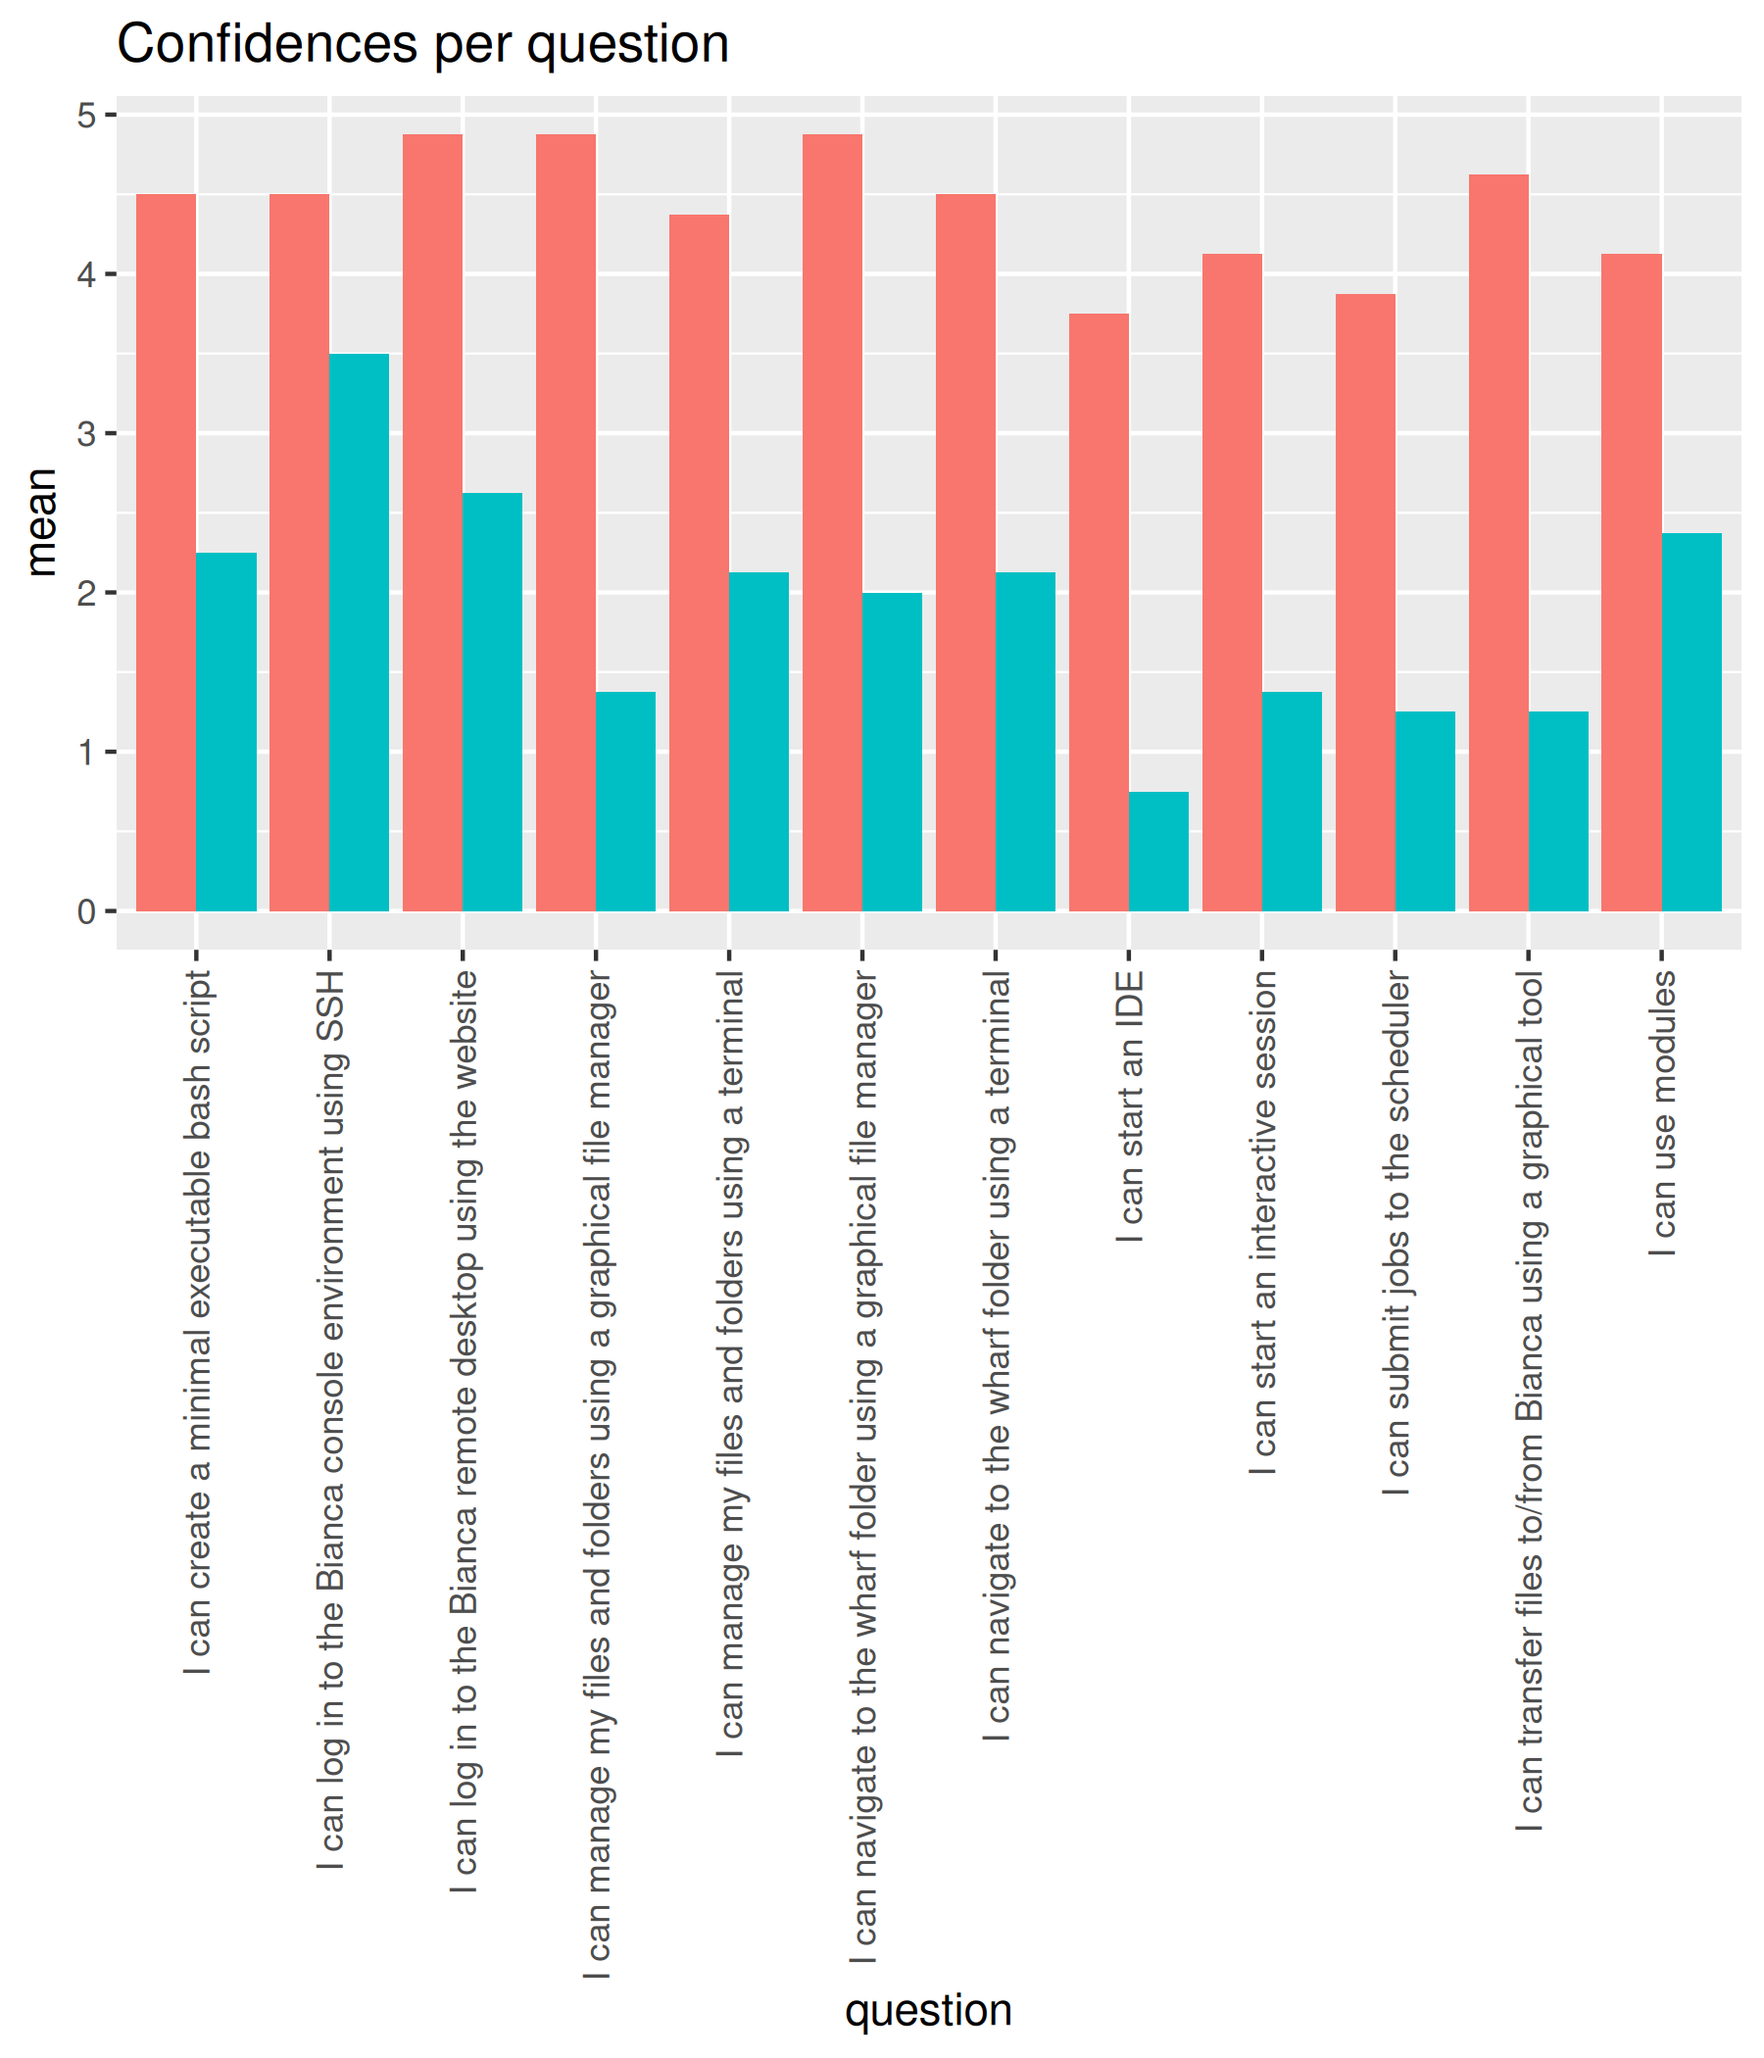
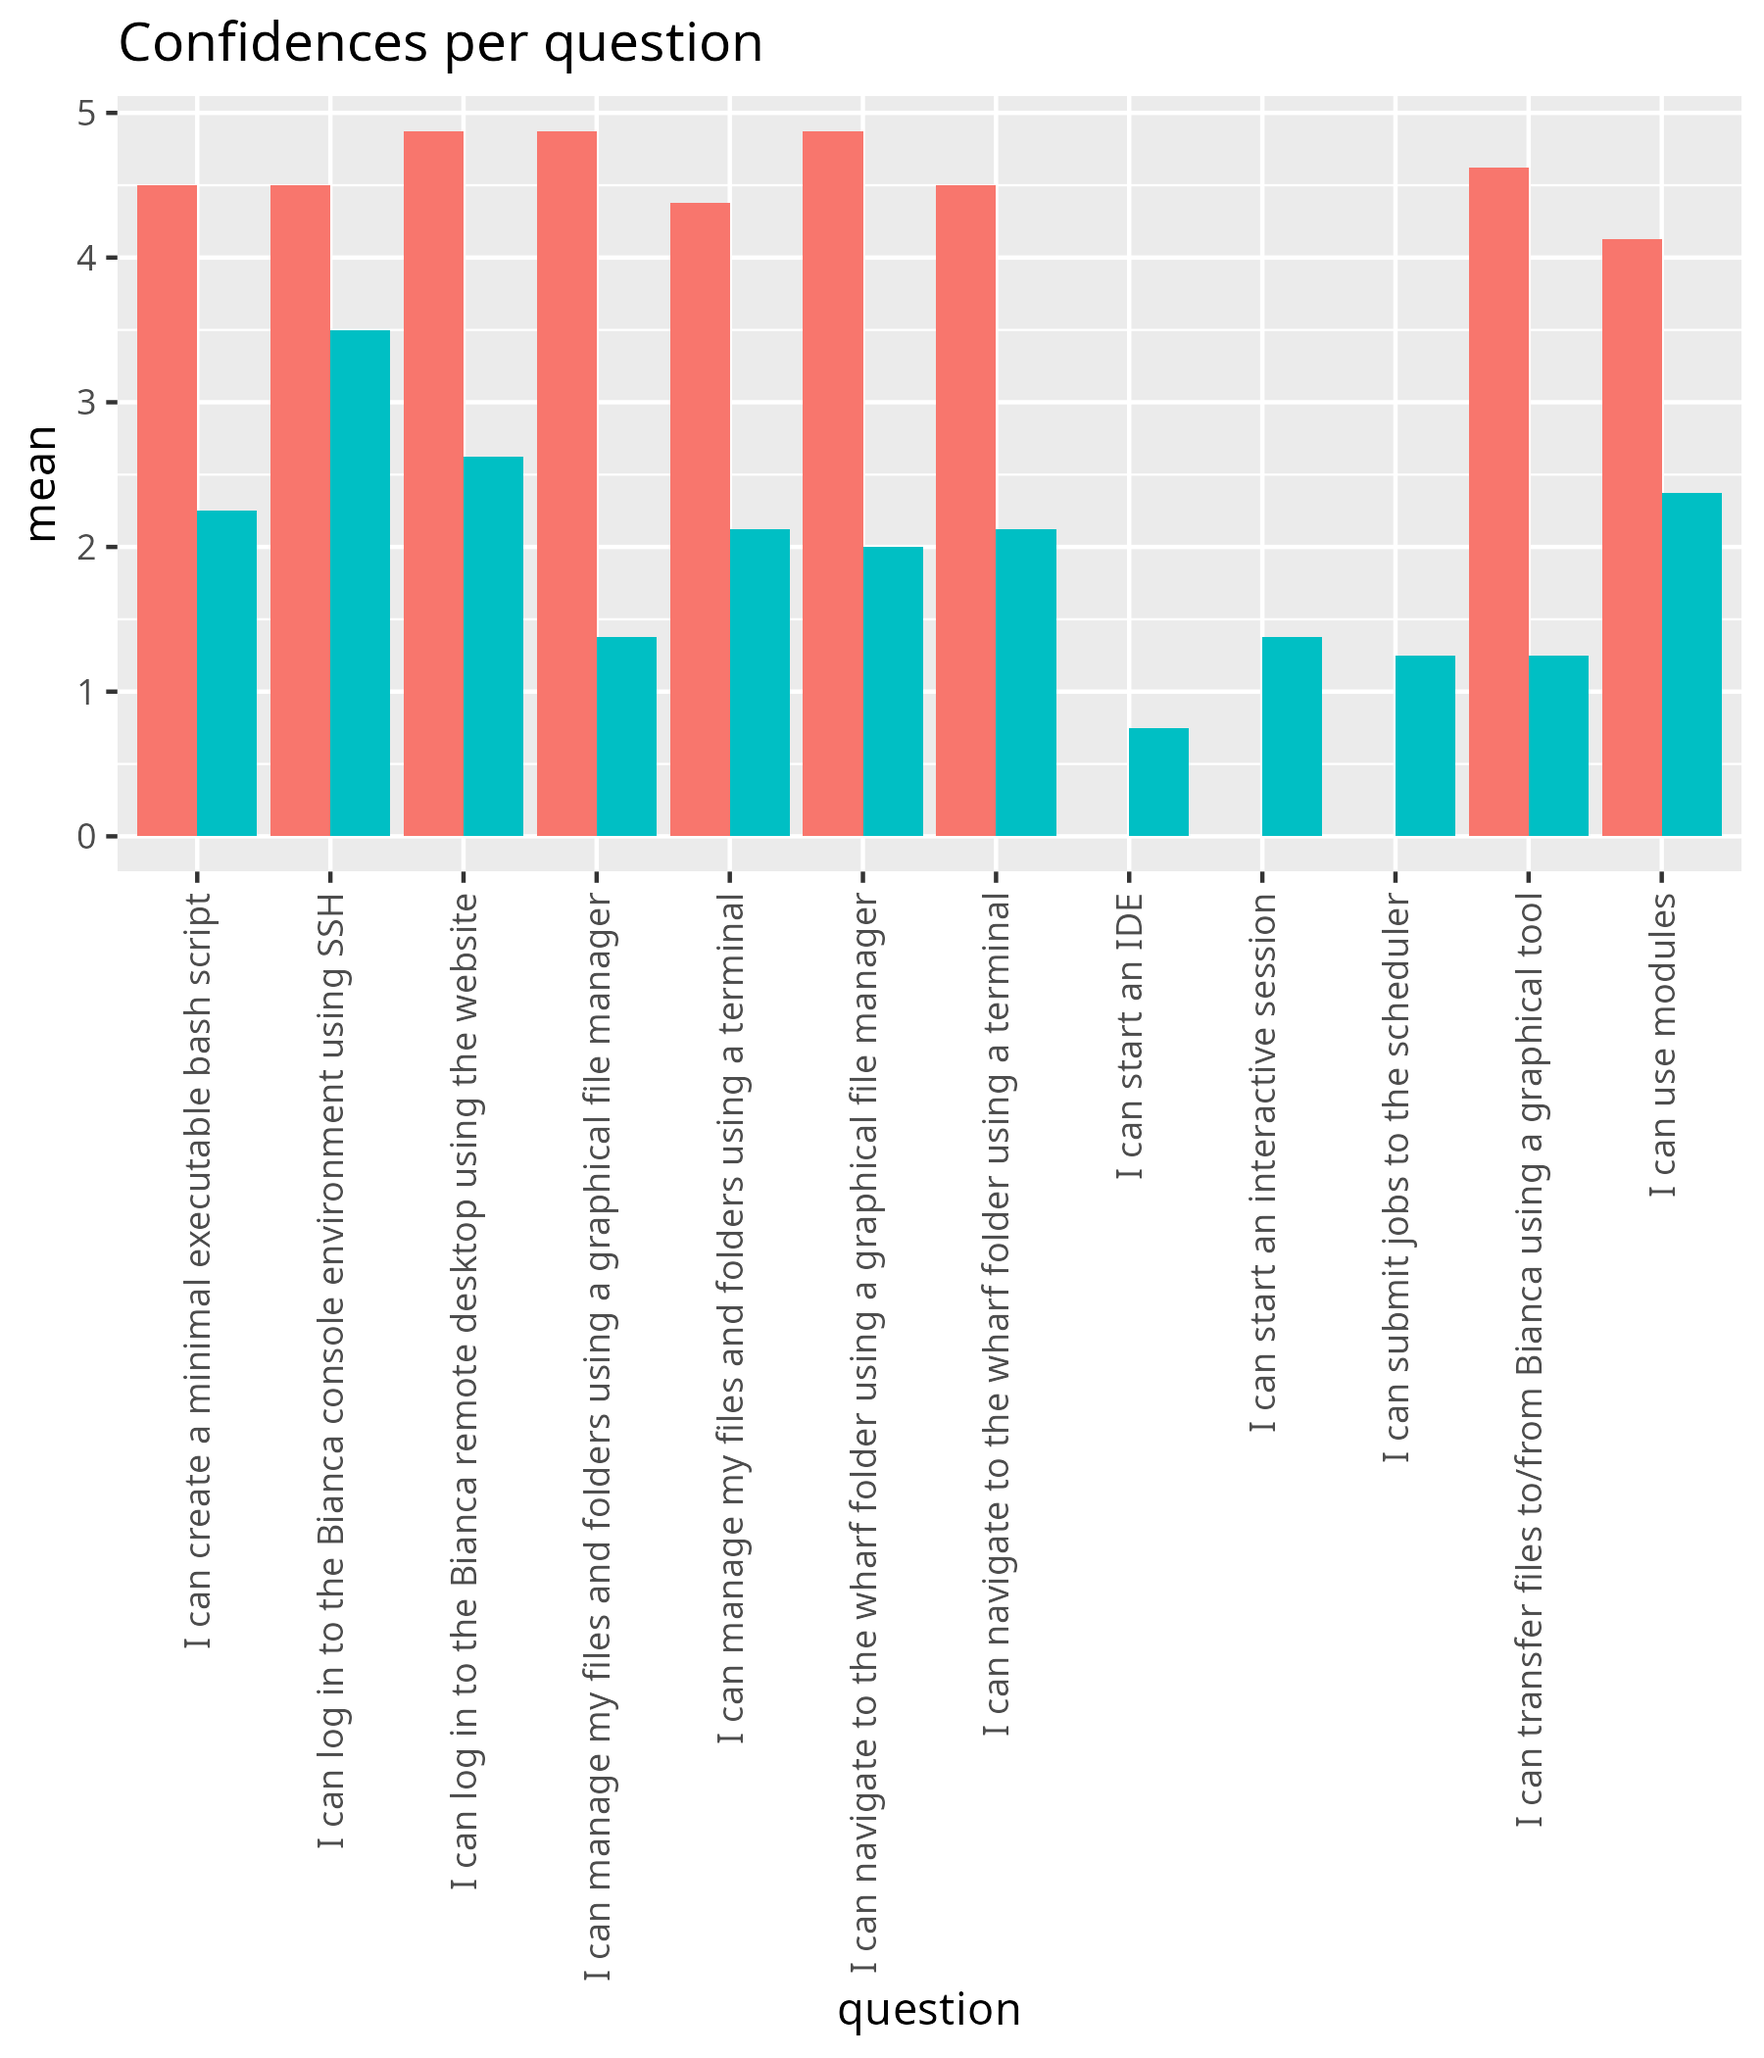
Update analysis

diff --git a/docs/evaluations/20250915/README.md b/docs/evaluations/20250915/README.md
@@ -11,6 +11,12 @@
 - [Any feedback results](any_feedback.csv)
 - [Reflection by Richel](../../reflections/20250915/20250915_richel.md)
 
+!!! note "Analysis note"
+
+    One learner filled in zeroes at three later sessions at the end of
+    the day. We hypothesize this learner left earlier.
+    We modified the data to remove those zeroes.
+
 ## Confidences
 
 - [Average confidences as a table](average_confidences.csv)
@@ -76,7 +82,7 @@
   some reading-up before the course, or make them watch certain videos, etc.,
   that you feel are important for understanding everything).
   Could be done in the Canvas platform for example where you can also see
-  if someone has not done the respective task. 
+  if someone has not done the respective task.
 - Gentle introduction to the topics, good pace, good selection of topics.
 - The course is super helpful and thanks to all the instructors!
 
@@ -105,17 +111,18 @@ before he started his section too.
 
 ![Confidences per question pre-post](confidences_per_question_pre_post.png)
 
-question                                                          | mean_pre| mean_post|   p_value|different 
-------------------------------------------------------------------|---------|----------|----------|----------
-I can log in to the Bianca remote desktop using the website       |    2.625|     4.875| 0.0106845|TRUE
-I can log in to the Bianca console environment using SSH          |    3.500|     4.500| 0.6854435|FALSE     
-I can navigate to the wharf folder using a graphical file manager |    2.000|     4.875| 0.0101293|TRUE      
-I can manage my files and folders using a graphical file manager  |    1.375|     4.875| 0.0024739|TRUE      
-I can navigate to the wharf folder using a terminal               |    2.125|     4.500| 0.0412186|TRUE      
-I can manage my files and folders using a terminal                |    2.125|     4.375| 0.0342120|TRUE      
-I can create a minimal executable bash script                     |    2.250|     4.500| 0.0907979|FALSE     
-I can use modules                                                 |    2.375|     4.125| 0.1369613|FALSE     
-I can transfer files to/from Bianca using a graphical tool        |    1.250|     4.625| 0.0045563|TRUE      
-I can start an interactive session                                |    1.375|     4.125| 0.0255363|TRUE      
-I can submit jobs to the scheduler                                |    1.250|     3.875| 0.0310325|TRUE      
-I can start an IDE                                                |    0.750|     3.750| 0.0198831|TRUE      
+question                                                          | mean_pre| mean_post|   p_value|different
+------------------------------------------------------------------|--------:|---------:|---------:|:---------
+I can log in to the Bianca remote desktop using the website       |    2.625|  4.875000| 0.0106845|TRUE
+I can log in to the Bianca console environment using SSH          |    3.500|  4.500000| 0.6854435|FALSE
+I can navigate to the wharf folder using a graphical file manager |    2.000|  4.875000| 0.0101293|TRUE
+I can manage my files and folders using a graphical file manager  |    1.375|  4.875000| 0.0024739|TRUE
+I can navigate to the wharf folder using a terminal               |    2.125|  4.500000| 0.0412186|TRUE
+I can manage my files and folders using a terminal                |    2.125|  4.375000| 0.0342120|TRUE
+I can create a minimal executable bash script                     |    2.250|  4.500000| 0.0907979|FALSE
+I can use modules                                                 |    2.375|  4.125000| 0.1369613|FALSE
+I can transfer files to/from Bianca using a graphical tool        |    1.250|  4.625000| 0.0045563|TRUE
+I can start an interactive session                                |    1.375|  4.714286| 0.0056481|TRUE
+I can submit jobs to the scheduler                                |    1.250|  4.428571| 0.0074946|TRUE
+I can start an IDE                                                |    0.750|  4.285714| 0.0076924|TRUE
+

diff --git a/docs/evaluations/20250915/stats.md b/docs/evaluations/20250915/stats.md
@@ -1,14 +1,14 @@
 |question                                                          | mean_pre| mean_post|   p_value|different |
 |:-----------------------------------------------------------------|--------:|---------:|---------:|:---------|
-|I can log in to the Bianca remote desktop using the website       |    2.625|     4.875| 0.0106845|TRUE      |
-|I can log in to the Bianca console environment using SSH          |    3.500|     4.500| 0.6854435|FALSE     |
-|I can navigate to the wharf folder using a graphical file manager |    2.000|     4.875| 0.0101293|TRUE      |
-|I can manage my files and folders using a graphical file manager  |    1.375|     4.875| 0.0024739|TRUE      |
-|I can navigate to the wharf folder using a terminal               |    2.125|     4.500| 0.0412186|TRUE      |
-|I can manage my files and folders using a terminal                |    2.125|     4.375| 0.0342120|TRUE      |
-|I can create a minimal executable bash script                     |    2.250|     4.500| 0.0907979|FALSE     |
-|I can use modules                                                 |    2.375|     4.125| 0.1369613|FALSE     |
-|I can transfer files to/from Bianca using a graphical tool        |    1.250|     4.625| 0.0045563|TRUE      |
-|I can start an interactive session                                |    1.375|     4.125| 0.0255363|TRUE      |
-|I can submit jobs to the scheduler                                |    1.250|     3.875| 0.0310325|TRUE      |
-|I can start an IDE                                                |    0.750|     3.750| 0.0198831|TRUE      |
+|I can log in to the Bianca remote desktop using the website       |    2.625|  4.875000| 0.0106845|TRUE      |
+|I can log in to the Bianca console environment using SSH          |    3.500|  4.500000| 0.6854435|FALSE     |
+|I can navigate to the wharf folder using a graphical file manager |    2.000|  4.875000| 0.0101293|TRUE      |
+|I can manage my files and folders using a graphical file manager  |    1.375|  4.875000| 0.0024739|TRUE      |
+|I can navigate to the wharf folder using a terminal               |    2.125|  4.500000| 0.0412186|TRUE      |
+|I can manage my files and folders using a terminal                |    2.125|  4.375000| 0.0342120|TRUE      |
+|I can create a minimal executable bash script                     |    2.250|  4.500000| 0.0907979|FALSE     |
+|I can use modules                                                 |    2.375|  4.125000| 0.1369613|FALSE     |
+|I can transfer files to/from Bianca using a graphical tool        |    1.250|  4.625000| 0.0045563|TRUE      |
+|I can start an interactive session                                |    1.375|  4.714286| 0.0056481|TRUE      |
+|I can submit jobs to the scheduler                                |    1.250|  4.428571| 0.0074946|TRUE      |
+|I can start an IDE                                                |    0.750|  4.285714| 0.0076924|TRUE      |
